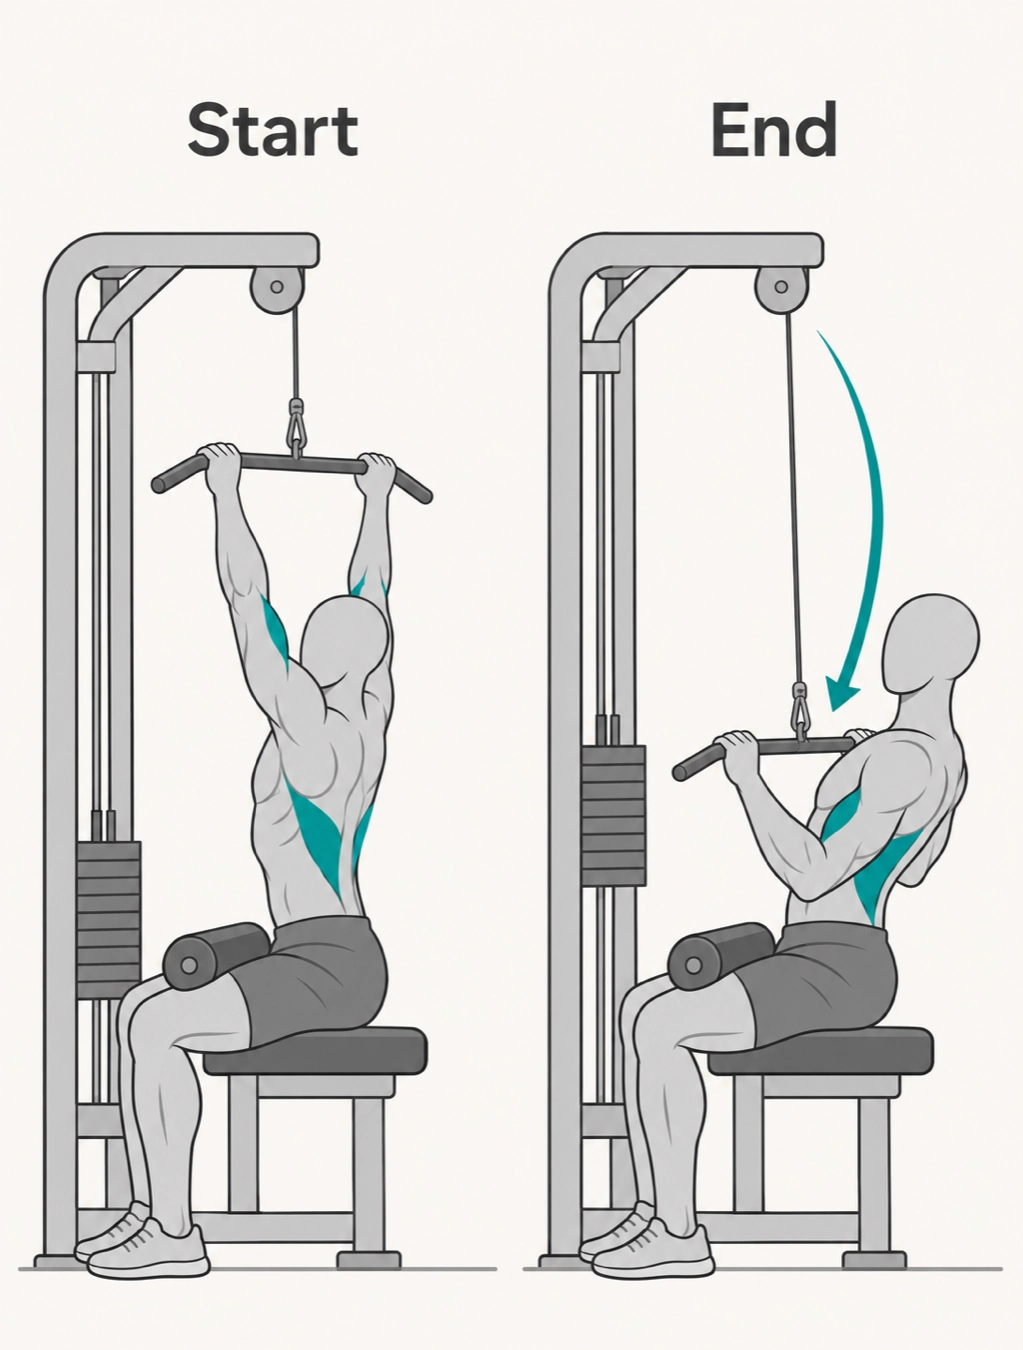
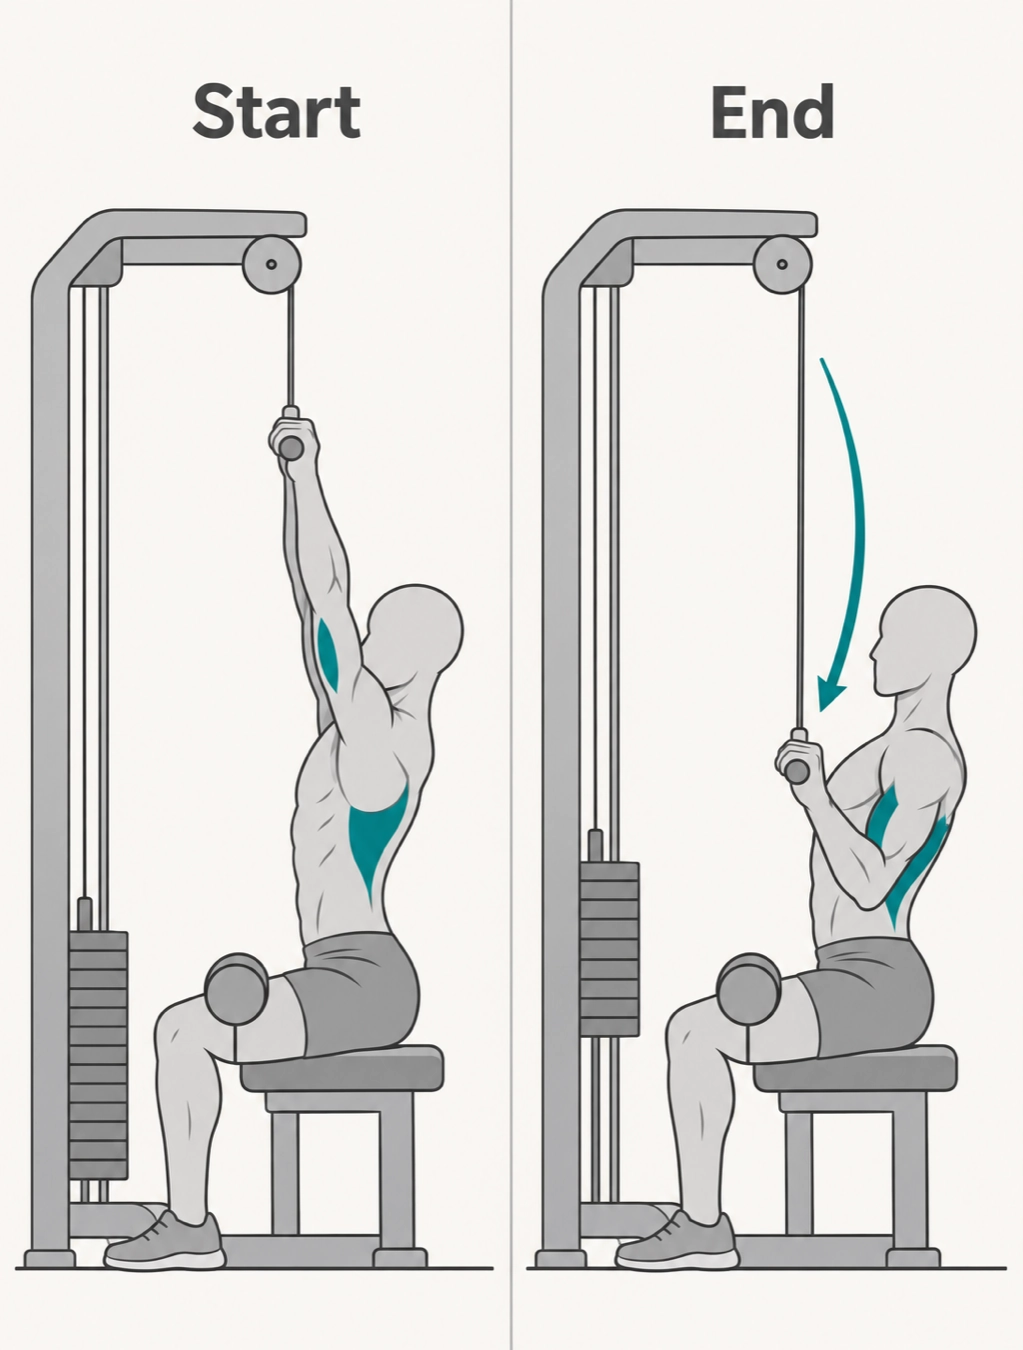
feat(training): form images for all 40 moves, pending review (#727)

diff --git a/data/exercises/media/review-notes.md b/data/exercises/media/review-notes.md
@@ -17,3 +17,9 @@ Squat and romanian_deadlift: body in side view but the barbell drawn horizontall
 (front-view perspective). Lat pulldown: machine seen from behind. Squat arrow overlaps the body; lat pulldown neck not neutral.
 Fix in the template and `poses.json`: bar end-on with one face-on plate, machines from the same side, arrow beside the
 figure, neck neutral. The three pilots were made before this rule and need regenerating once quota allows.
+
+## Toplu üretim 1 (25 Kas 2026, 40 hareket, gpt-6-luna, şablon + poses.json perspektif kuralları)
+Orkestratör ön bakışı (küçük boyutta, toplu görünüm): genel stil tutarlı; tek yüz-face-on plaka kuralı çoğunda tuttu.
+- **Yeniden üret:** `dip` (paralel barlar çizilmemiş, figür havada) · `squat` (bar konumu: başın arkasında mı belirsiz; front squat'a benziyor).
+- **Bakılacak:** çerçeve ve "Start/End" yazı boyutu karelere göre değişiyor (stil tutarlılığı).
+- Hepsi `image_review: pending`; Levent kontrol listesiyle tek tek onaylar (`by: levent, checklist: pass`), onaylanan sunucudan gelir.
